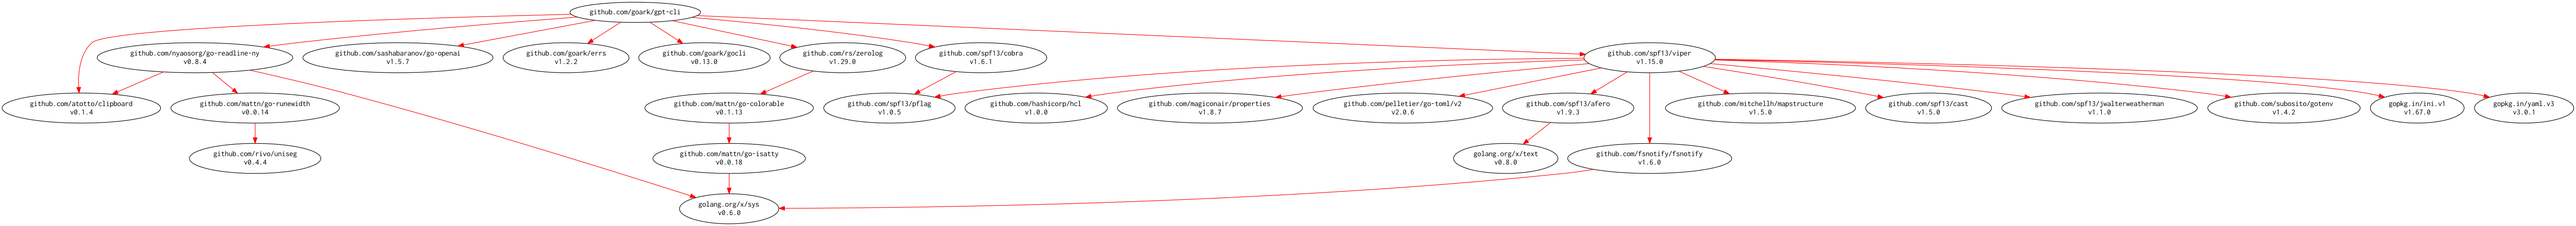
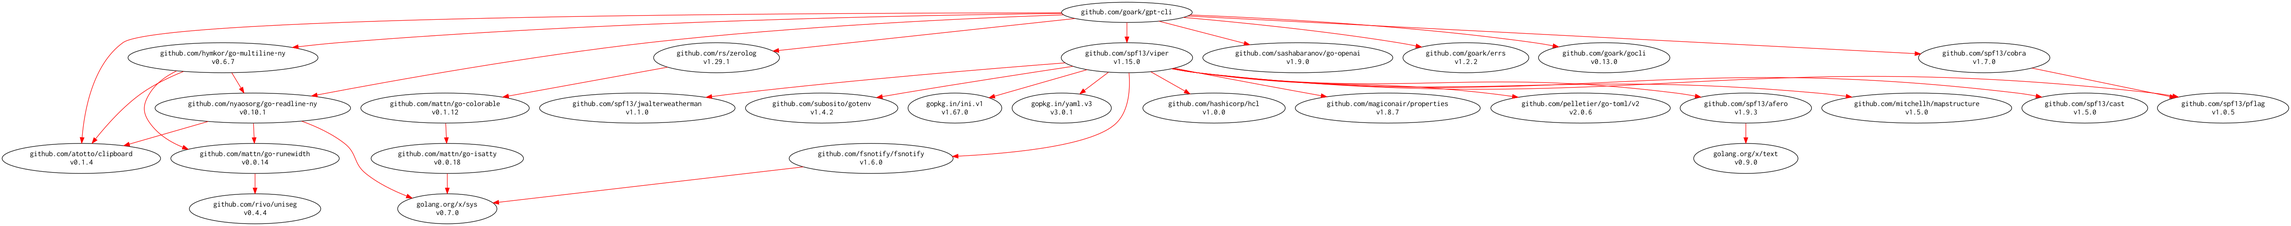
Update chat command
- Stream mode in single chat
- Add --multi-line option in chat interactive mode
- Fix command-line parameter names

diff --git a/gpt/chat/interactive.go b/gpt/chat/interactive.go
@@ -8,8 +8,8 @@ import (
 
 	"github.com/goark/errs"
 	"github.com/goark/gpt-cli/ecode"
+	"github.com/hymkor/go-multiline-ny"
 	"github.com/nyaosorg/go-readline-ny"
-	openai "github.com/sashabaranov/go-openai"
 )
 
 // Interactive method is chatting in interactive mode (stream access).
@@ -45,46 +45,48 @@ func (cctx *ChatContext) Interactive(ctx context.Context, w io.Writer) error {
 	return cctx.Save()
 }
 
-func (cctx *ChatContext) stream(ctx context.Context, client *openai.Client, w io.Writer) (string, error) {
-	cctx.Logger().Info().Interface("request", cctx.prepare).Send()
-	stream, err := client.CreateChatCompletionStream(ctx, cctx.prepare)
-	if err != nil {
-		err = errs.Wrap(err)
-		cctx.Logger().Error().Interface("error", err).Send()
-		return "", err
+// InteractiveMulti method is chatting in interactive mode with multiline editing (stream access).
+func (cctx *ChatContext) InteractiveMulti(ctx context.Context, w io.Writer) error {
+	if cctx == nil {
+		return errs.Wrap(ecode.ErrNullPointer)
 	}
-	defer stream.Close()
+	client := cctx.Client()
+	var editor multiline.Editor
+	editor.SetPrompt(func(w io.Writer, lnum int) (int, error) {
+		return fmt.Fprintf(w, "Chat[%d] ", lnum+1)
+	})
 
-	builder := strings.Builder{}
-	fmt.Fprintln(w)
+	fmt.Fprintln(w, "Input 'Ctrl+J' or 'Ctrl+Enter' to submit message")
+	fmt.Fprintln(w, "Input 'Ctrl+D' with no chars to stop")
+	fmt.Fprintln(w, "      or input text \"q\" or \"quit\" and submit to stop")
+	cctx.prepare.Stream = true
 	for {
-		resp, err := stream.Recv()
+		lines, err := editor.Read(ctx)
 		if err != nil {
 			if errs.Is(err, io.EOF) {
 				break
 			}
-			err = errs.Wrap(ecode.ErrStream, errs.WithCause(err))
-			cctx.Logger().Error().Interface("error", err).Send()
-			return "", err
+			return errs.Wrap(err)
 		}
-		cctx.Logger().Info().Interface("response", resp).Send()
-		if len(resp.Choices) > 0 {
-			if delta := resp.Choices[0].Delta.Content; len(delta) > 0 {
-				if _, err := builder.WriteString(delta); err != nil {
-					err = errs.Wrap(err)
-					cctx.Logger().Error().Interface("error", err).Send()
-					return "", err
-				}
-				if _, err := io.WriteString(w, delta); err != nil {
-					err = errs.Wrap(err)
-					cctx.Logger().Error().Interface("error", err).Send()
-					return "", err
-				}
-			}
+		if len(lines) == 0 {
+			continue
 		}
+		text := strings.TrimSpace(strings.Join(lines, "\n"))
+		if len(text) == 0 {
+			continue
+		}
+		if strings.EqualFold(text, "q") || strings.EqualFold(text, "quit") {
+			break
+		}
+
+		_ = cctx.AppendUserMessages([]string{text})
+		resText, err := cctx.stream(ctx, client, w)
+		if err != nil {
+			return errs.Wrap(err)
+		}
+		_ = cctx.AppendAssistantMessages([]string{resText})
 	}
-	fmt.Fprintln(w)
-	return builder.String(), nil
+	return cctx.Save()
 }
 
 /* MIT License

diff --git a/facade/chat.go b/facade/chat.go
@@ -42,7 +42,11 @@ func newChatCmd(ui *rwi.RWI) *cobra.Command {
 			if err != nil {
 				return debugPrint(ui, err)
 			}
-			savePath, err := cmd.Flags().GetString("save-file")
+			savePath, err := cmd.Flags().GetString("output-file")
+			if err != nil {
+				return debugPrint(ui, err)
+			}
+			streamMode, err := cmd.Flags().GetBool("stream-mode")
 			if err != nil {
 				return debugPrint(ui, err)
 			}
@@ -54,11 +58,12 @@ func newChatCmd(ui *rwi.RWI) *cobra.Command {
 				return debugPrint(ui, err)
 			}
 
-			// single mode
 			var msgs []string = []string{}
+			// message from command-line
 			if len(msg) > 0 {
 				msgs = append(msgs, msg)
 			}
+			// message from clipboard
 			if clipboardFlag {
 				text, err := clipboard.ReadAll()
 				if err != nil {
@@ -68,6 +73,7 @@ func newChatCmd(ui *rwi.RWI) *cobra.Command {
 					msgs = append(msgs, text)
 				}
 			}
+			// messages from attached files
 			for _, path := range paths {
 				msg, err := chat.AttachFile(path)
 				if err != nil {
@@ -75,11 +81,9 @@ func newChatCmd(ui *rwi.RWI) *cobra.Command {
 				}
 				msgs = append(msgs, msg)
 			}
-			respMsg, err := cctx.Request(cmd.Context(), msgs)
-			if len(respMsg) > 0 {
-				_ = debugPrint(ui, ui.Outputln(respMsg))
-			}
-			if err != nil {
+
+			// kicking single mode
+			if err := cctx.Request(cmd.Context(), streamMode, msgs, ui.Writer()); err != nil {
 				return debugPrint(ui, err)
 			}
 			if len(cctx.SavePath()) > 0 {
@@ -89,10 +93,11 @@ func newChatCmd(ui *rwi.RWI) *cobra.Command {
 		},
 	}
 	chatCmd.Flags().BoolP("clipboard", "c", false, "Input message from clipboard")
+	chatCmd.Flags().BoolP("stream-mode", "", false, "Output from GPT by Stream mode")
 	chatCmd.Flags().StringP("message", "m", "", "Chat message")
 	chatCmd.Flags().StringP("prepare-file", "p", "", "Path of prepare file (JSON format)")
 	chatCmd.Flags().StringSliceP("attach-file", "a", nil, "Path of attach files (text file only)")
-	chatCmd.Flags().StringP("save-file", "f", "", "Path of save file (JSON format)")
+	chatCmd.Flags().StringP("output-file", "o", "", "Path of save file (JSON format)")
 
 	chatCmd.AddCommand(
 		newHistoryCmd(ui),

diff --git a/gpt/chat/stream.go b/gpt/chat/stream.go
@@ -2,32 +2,55 @@ package chat
 
 import (
 	"context"
+	"fmt"
 	"io"
+	"strings"
 
 	"github.com/goark/errs"
 	"github.com/goark/gpt-cli/ecode"
+	"github.com/sashabaranov/go-openai"
 )
 
-// Request requesta OpenAI Chat completion, and returns response message. (REST access)
-func (cctx *ChatContext) Request(ctx context.Context, streamMode bool, msgs []string, w io.Writer) error {
-	if cctx == nil {
-		return errs.Wrap(ecode.ErrNullPointer)
-	}
-	if err := cctx.AppendUserMessages(msgs); err != nil {
-		return errs.Wrap(err)
-	}
-	var err error
-	var resText string
-	if streamMode {
-		resText, err = cctx.stream(ctx, cctx.Client(), w)
-	} else {
-		resText, err = cctx.rest(ctx, cctx.Client(), w)
-	}
+func (cctx *ChatContext) stream(ctx context.Context, client *openai.Client, w io.Writer) (string, error) {
+	cctx.Logger().Info().Interface("request", cctx.prepare).Send()
+	stream, err := client.CreateChatCompletionStream(ctx, cctx.prepare)
 	if err != nil {
-		return errs.Wrap(err)
+		err = errs.Wrap(err)
+		cctx.Logger().Error().Interface("error", err).Send()
+		return "", err
 	}
-	_ = cctx.AppendAssistantMessages([]string{resText})
-	return cctx.Save()
+	defer stream.Close()
+
+	builder := strings.Builder{}
+	fmt.Fprintln(w)
+	for {
+		resp, err := stream.Recv()
+		if err != nil {
+			if errs.Is(err, io.EOF) {
+				break
+			}
+			err = errs.Wrap(ecode.ErrStream, errs.WithCause(err))
+			cctx.Logger().Error().Interface("error", err).Send()
+			return "", err
+		}
+		cctx.Logger().Info().Interface("response", resp).Send()
+		if len(resp.Choices) > 0 {
+			if delta := resp.Choices[0].Delta.Content; len(delta) > 0 {
+				if _, err := builder.WriteString(delta); err != nil {
+					err = errs.Wrap(err)
+					cctx.Logger().Error().Interface("error", err).Send()
+					return "", err
+				}
+				if _, err := io.WriteString(w, delta); err != nil {
+					err = errs.Wrap(err)
+					cctx.Logger().Error().Interface("error", err).Send()
+					return "", err
+				}
+			}
+		}
+	}
+	fmt.Fprintln(w)
+	return builder.String(), nil
 }
 
 /* MIT License

diff --git a/facade/chat-interactive.go b/facade/chat-interactive.go
@@ -20,25 +20,35 @@ func newInteractiveCmd(ui *rwi.RWI) *cobra.Command {
 			if err != nil {
 				return debugPrint(ui, err)
 			}
-			profilePath, err := cmd.Flags().GetString("profile")
+			prepPath, err := cmd.Flags().GetString("prepare-file")
 			if err != nil {
 				return debugPrint(ui, err)
 			}
-			savePath, err := cmd.Flags().GetString("save-file")
+			savePath, err := cmd.Flags().GetString("output-file")
+			if err != nil {
+				return debugPrint(ui, err)
+			}
+			multiLine, err := cmd.Flags().GetBool("multi-line")
 			if err != nil {
 				return debugPrint(ui, err)
 			}
 
 			// create Chat context
-			cctx, err := chat.New(opts.APIKey, opts.CacheDir, opts.Logger, profilePath, savePath)
+			cctx, err := chat.New(opts.APIKey, opts.CacheDir, opts.Logger, prepPath, savePath)
 			if err != nil {
 				opts.Logger.Error().Interface("error", errs.Wrap(err)).Send()
 				return debugPrint(ui, err)
 			}
 
-			// interactive mode
-			if err := cctx.Interactive(cmd.Context(), ui.Writer()); err != nil {
-				return debugPrint(ui, err)
+			// kicking interactive mode
+			if multiLine {
+				if err := cctx.InteractiveMulti(cmd.Context(), ui.Writer()); err != nil {
+					return debugPrint(ui, err)
+				}
+			} else {
+				if err := cctx.Interactive(cmd.Context(), ui.Writer()); err != nil {
+					return debugPrint(ui, err)
+				}
 			}
 			if len(cctx.SavePath()) > 0 {
 				return ui.Outputln("\nsave to", cctx.SavePath())
@@ -46,8 +56,9 @@ func newInteractiveCmd(ui *rwi.RWI) *cobra.Command {
 			return nil
 		},
 	}
-	interactiveCmd.Flags().StringP("profile", "p", "", "Path of profile file (JSON format)")
-	interactiveCmd.Flags().StringP("save-file", "f", "", "Path of save file (JSON format)")
+	interactiveCmd.Flags().StringP("prepare-file", "p", "", "Path of prepare file (JSON format)")
+	interactiveCmd.Flags().StringP("output-file", "o", "", "Path of save file (JSON format)")
+	interactiveCmd.Flags().BoolP("multi-line", "m", false, "Editing with multi-line mode")
 
 	return interactiveCmd
 }

diff --git a/gpt/chat/rest.go b/gpt/chat/rest.go
@@ -5,29 +5,30 @@ import (
 	"io"
 
 	"github.com/goark/errs"
-	"github.com/goark/gpt-cli/ecode"
+	"github.com/sashabaranov/go-openai"
 )
 
-// Request requesta OpenAI Chat completion, and returns response message. (REST access)
-func (cctx *ChatContext) Request(ctx context.Context, streamMode bool, msgs []string, w io.Writer) error {
-	if cctx == nil {
-		return errs.Wrap(ecode.ErrNullPointer)
-	}
-	if err := cctx.AppendUserMessages(msgs); err != nil {
-		return errs.Wrap(err)
-	}
-	var err error
-	var resText string
-	if streamMode {
-		resText, err = cctx.stream(ctx, cctx.Client(), w)
-	} else {
-		resText, err = cctx.rest(ctx, cctx.Client(), w)
-	}
+func (cctx *ChatContext) rest(ctx context.Context, client *openai.Client, w io.Writer) (string, error) {
+	cctx.prepare.Stream = false
+	cctx.Logger().Info().Interface("request", cctx.prepare).Send()
+	resp, err := client.CreateChatCompletion(ctx, cctx.prepare)
 	if err != nil {
-		return errs.Wrap(err)
+		err = errs.Wrap(err, errs.WithContext("request", cctx.prepare))
+		cctx.Logger().Error().Interface("error", err).Send()
+		return "", err
 	}
-	_ = cctx.AppendAssistantMessages([]string{resText})
-	return cctx.Save()
+	cctx.Logger().Info().Interface("response", resp).Send()
+
+	if len(resp.Choices) == 0 {
+		return "", nil
+	}
+	resText := resp.Choices[0].Message.Content
+	if _, err := io.WriteString(w, resText); err != nil {
+		err = errs.Wrap(err)
+		cctx.Logger().Error().Interface("error", err).Send()
+		return "", err
+	}
+	return resText, nil
 }
 
 /* MIT License

diff --git a/README.md b/README.md
@@ -38,7 +38,7 @@ Flags:
       --debug              for debug
   -h, --help               help for gpt-cli
       --log-dir string     Directory for log files (default "/home/username/.cache/gpt-cli")
-      --log-level string   log level [nop|error|warn|info|debug|trace] (default "nop")
+      --log-level string   Log level [nop|error|warn|info|debug|trace] (default "nop")
 
 Use "gpt-cli [command] --help" for more information about a command.
 ```
@@ -65,8 +65,9 @@ Flags:
   -c, --clipboard             Input message from clipboard
   -h, --help                  help for chat
   -m, --message string        Chat message
+  -o, --output-file string    Path of save file (JSON format)
   -p, --prepare-file string   Path of prepare file (JSON format)
-  -f, --save-file string      Path of save file (JSON format)
+      --stream-mode           Output from GPT by Stream mode
 
 Global Flags:
       --api-key string     OpenAI API key
@@ -157,9 +158,10 @@ Aliases:
   interactive, i
 
 Flags:
-  -h, --help               help for interactive
-  -p, --profile string     Path of profile file (JSON format)
-  -f, --save-file string   Path of save file (JSON format)
+  -h, --help                  help for interactive
+  -m, --multi-line            Editing with multi-line mode
+  -o, --output-file string    Path of save file (JSON format)
+  -p, --prepare-file string   Path of prepare file (JSON format)
 
 Global Flags:
       --api-key string     OpenAI API key
